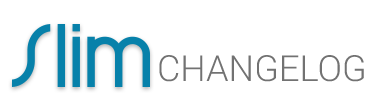
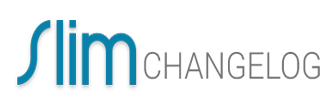
misc changes
- remove external images links
- fix changelog picture on mobile UI
- remove mail icon from support page

Changed region(s): [[0.0298, 0.1765, 0.9821, 0.8824]]

diff --git a/index.html b/index.html
@@ -209,7 +209,7 @@
                                 <div class="card-padding">
                                     <p class="card-title team-title">Core Team</p>
                                     <div class="team-item">
-                                        <img src="http://i1380.photobucket.com/albums/ah192/ANabeel95/prbassplayer_zpsvecdeodd.jpg">
+                                        <img src="images/prbassplayer.jpg">
                                         <div class="team-item-text-container">
                                             <p class="card-content-text name">Josue Rivera</p>
                                             <div class="team-icon-text">
@@ -227,7 +227,7 @@
                                         </div>
                                     </div>
                                     <div class="team-item">
-                                        <img src="http://i1380.photobucket.com/albums/ah192/ANabeel95/usethisone_zpspcrhbumb.jpg">
+                                        <img src="images/cordell.jpg">
                                         <div class="team-item-text-container">
                                             <p class="card-content-text name">Cordell</p>
                                             <div class="team-icon-text">
@@ -281,7 +281,7 @@
                                         </div>
                                     </div>
                                     <div class="team-item">
-                                        <img src="http://i1380.photobucket.com/albums/ah192/ANabeel95/griffin_zpsw0oeicwd.jpg">
+                                        <img src="images/griffin.jpg">
                                         <div class="team-item-text-container">
                                             <p class="card-content-text name">Griffin Millender</p>
                                             <div class="team-icon-text">
@@ -299,7 +299,7 @@
                                         </div>
                                     </div>
                                     <div class="team-item">
-                                        <img src="http://i1380.photobucket.com/albums/ah192/ANabeel95/nicklovell_zpsqpyrrss4.png">
+                                        <img src="images/nicklovell.png">
                                         <div class="team-item-text-container">
                                             <p class="card-content-text name">Nick Lovell</p>
                                             <div class="team-icon-text">
@@ -317,7 +317,7 @@
                                         </div>
                                     </div>
                                     <div class="team-item">
-                                        <img src="http://i1380.photobucket.com/albums/ah192/ANabeel95/perlycke_zpsyibz2mdq.jpg">
+                                        <img src="images/perlycke.jpg">
                                         <div class="team-item-text-container">
                                             <p class="card-content-text name">Per Lycke</p>
                                             <div class="team-icon-text">
@@ -335,7 +335,7 @@
                                         </div>
                                     </div>
                                     <div class="team-item">
-                                        <img src="http://i1380.photobucket.com/albums/ah192/ANabeel95/Avatar_zpsirzrp00w.jpg">
+                                        <img src="images/nabeel.jpg">
                                         <div class="team-item-text-container">
                                             <p class="card-content-text name">Ahmed Nabeel</p>
                                             <div class="team-icon-text">
@@ -353,7 +353,7 @@
                                         </div>
                                     </div>
                                     <div class="team-item">
-                                        <img src="http://i1380.photobucket.com/albums/ah192/ANabeel95/jubakuba_zpszjy8stxg.png">
+                                        <img src="images/jubakuba.png">
                                         <div class="team-item-text-container">
                                             <p class="card-content-text name">Kit Tinhonovich</p>
                                             <div class="team-icon-text">
@@ -371,7 +371,7 @@
                                         </div>
                                     </div>
                                     <div class="team-item">
-                                        <img src="http://i1380.photobucket.com/albums/ah192/ANabeel95/ixbbnswa_zpsth5o1lji.jpg">
+                                        <img src="images/tylog.jpg">
                                         <div class="team-item-text-container">
                                             <p class="card-content-text name">Tylog</p>
                                             <div class="team-icon-text">
@@ -389,7 +389,7 @@
                                         </div>
                                     </div>
                                     <div class="team-item">
-                                        <img src="http://i1380.photobucket.com/albums/ah192/ANabeel95/dankoman_zpssqru58vz.png">
+                                        <img src="images/dankoman.png">
                                         <div class="team-item-text-container">
                                             <p class="card-content-text name">Daniel Koman</p>
                                             <div class="team-icon-text">
@@ -413,7 +413,7 @@
                                 <div class="card-padding">
                                     <p class="card-title team-title">Device Maintainers and Contributors</p>
                                     <div class="team-item">
-                                        <img src="http://i1380.photobucket.com/albums/ah192/ANabeel95/robbie_zpspjitxsad.png">
+                                        <img src="images/robbie.png">
                                         <div class="team-item-text-container">
                                             <p class="card-content-text name">Robbie Lancaster</p>
                                             <div class="team-icon-text">
@@ -449,7 +449,7 @@
                                         </div>
                                     </div>
                                     <div class="team-item">
-                                        <img src="http://i1380.photobucket.com/albums/ah192/ANabeel95/cristian_zpsevqvypd3.png">
+                                        <img src="images/cristian.png">
                                         <div class="team-item-text-container">
                                             <p class="card-content-text name">Cristian Giordano</p>
                                             <div class="team-icon-text">
@@ -467,7 +467,7 @@
                                         </div>
                                     </div>
                                     <div class="team-item">
-                                        <img src="http://i1380.photobucket.com/albums/ah192/ANabeel95/perseus71_zpsohunnopc.png">
+                                        <img src="images/perseus71.png">
                                         <div class="team-item-text-container">
                                             <p class="card-content-text name">Perseus71</p>
                                             <div class="team-icon-text">
@@ -503,7 +503,7 @@
                                         </div>
                                     </div>
                                     <div class="team-item">
-                                        <img src="http://i1380.photobucket.com/albums/ah192/ANabeel95/rirozizo_zpsnuaksuzg.png">
+                                        <img src="images/rirozizo.png">
                                         <div class="team-item-text-container">
                                             <p class="card-content-text name">Rawad Zahreddine</p>
                                             <div class="team-icon-text">
@@ -521,7 +521,7 @@
                                         </div>
                                     </div>
                                     <div class="team-item">
-                                        <img src="http://i1380.photobucket.com/albums/ah192/ANabeel95/serg_zpslik9h2tp.png">
+                                        <img src="images/serg.png">
                                         <div class="team-item-text-container">
                                             <p class="card-content-text name">Sergey Karsakov</p>
                                             <div class="team-icon-text">
@@ -575,7 +575,7 @@
                                         </div>
                                     </div>
                                     <div class="team-item">
-                                        <img src="http://i1380.photobucket.com/albums/ah192/ANabeel95/nospamdan_zpsoee8wirr.png">
+                                        <img src="images/nospamdan.png">
                                         <div class="team-item-text-container">
                                             <p class="card-content-text name">Dan Cartier</p>
                                             <div class="team-icon-text">
@@ -629,7 +629,7 @@
                                         </div>
                                     </div>
                                     <div class="team-item">
-                                        <img src="http://i1380.photobucket.com/albums/ah192/ANabeel95/dexter93_zpsopsuqkf9.png">
+                                        <img src="images/dexter93.png">
                                         <div class="team-item-text-container">
                                             <p class="card-content-text name">Dimitris Mantzouranis</p>
                                             <div class="team-icon-text">
@@ -665,7 +665,7 @@
                                         </div>
                                     </div>
                                     <div class="team-item">
-                                        <img src="http://i1380.photobucket.com/albums/ah192/ANabeel95/arun_zpszdpsyqj2.png">
+                                        <img src="images/arun.png">
                                         <div class="team-item-text-container">
                                             <p class="card-content-text name">Arun Manohar</p>
                                             <div class="team-icon-text">
@@ -719,7 +719,7 @@
                                         </div>
                                     </div>
                                     <div class="team-item">
-                                        <img src="http://i1380.photobucket.com/albums/ah192/ANabeel95/xceed_zpsxb8j5dbf.png">
+                                        <img src="images/xceed.png">
                                         <div class="team-item-text-container">
                                             <p class="card-content-text name">Kenny G</p>
                                             <div class="team-icon-text">
@@ -737,7 +737,7 @@
                                         </div>
                                     </div>
                                     <div class="team-item">
-                                        <img src="http://i1380.photobucket.com/albums/ah192/ANabeel95/stuart_zpslyjurogs.png">
+                                        <img src="images/stuart.png">
                                         <div class="team-item-text-container">
                                             <p class="card-content-text name">Stuart Waller</p>
                                             <div class="team-icon-text">
@@ -750,7 +750,7 @@
                                             </div>
                                             <div class="team-icon-text">
                                                 <core-icon icon="work"></core-icon>
-                                                <p class="card-content-text">Support/Forum Moderator</p>
+                                                <p class="card-content-text">Support</p>
                                             </div>
                                         </div>
                                     </div>
@@ -781,7 +781,6 @@
                             <paper-icon-button class="drawer-toggle"></paper-icon-button>
                         </div>
                         <paper-icon-button icon="search"></paper-icon-button>
-                        <paper-icon-button icon="mail"></paper-icon-button>
                     </core-toolbar>
                     <div class="content-sidebar-flex">
                         <div class="content-section content-responsive-grid">
